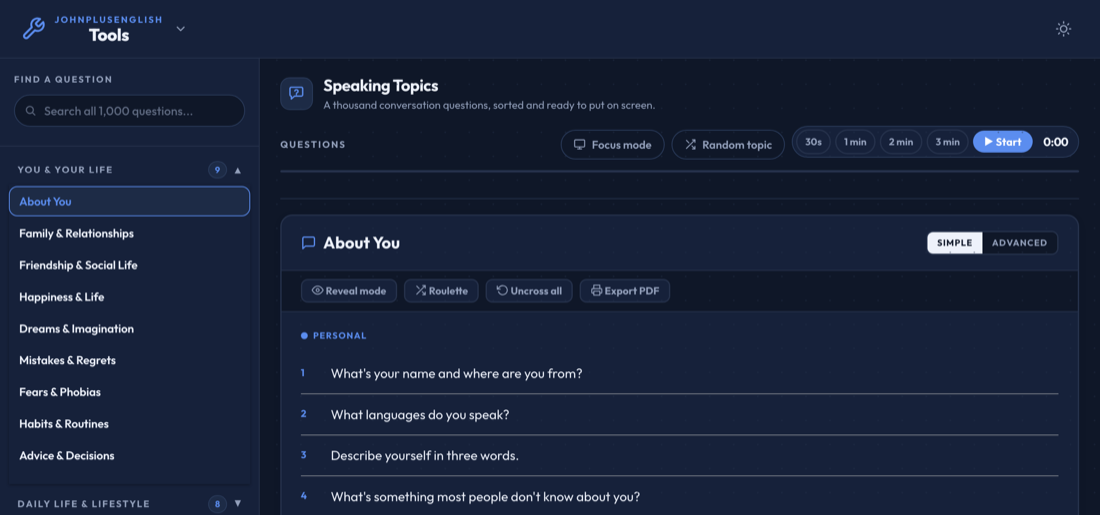
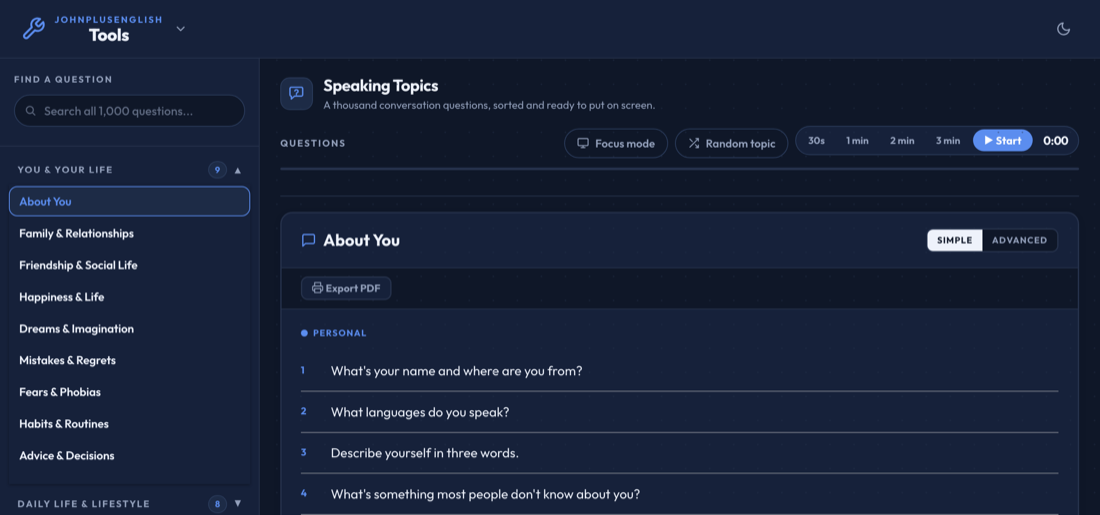
Declutter Speaking Topics
John: "too many buttons and pills, need to declutter and simplify."

The card under each topic had four tool buttons; it has one now. Removed Reveal
mode, Roulette and Uncross all, keeping Export PDF. He confirmed the cuts, and
picked which toolbar controls to keep: Focus mode, the timer and Random topic
all stay. Each removed button was one `h += '<button ...>'` line in renderDeck,
stripped from the built output; revealMode stays false so the questions simply
always show, and the roulette overlay is left in place but unreachable.

The timer read as four separately-bordered pills inside a bordered container,
because the tool gives each pill its own 1.5px border that my styles had not
reset. Stripped it, so the presets are now one clean segmented control.

Verified: 50 topics load, the deck builds, the timer runs and its presets
select, and Focus mode and Random topic are intact. No console errors.

diff --git a/tools/speaking-topics.html b/tools/speaking-topics.html
@@ -431,8 +431,11 @@ main{overflow:visible;min-width:0}
 .timer-section{display:contents}
 .timer-controls{display:inline-flex;align-items:center;gap:5px;
   border:1px solid var(--soft-line);border-radius:999px;padding:3px 4px;background:var(--card)}
+/* The tool gives each pill its own 1.5px border; inside the bordered timer
+   container that reads as four loose pills. Strip it so the presets are one
+   clean segmented control. */
 .timer-pill{font-size:11.5px;font-weight:700;color:var(--muted);cursor:pointer;
-  padding:4px 9px;border-radius:999px;transition:background .12s,color .12s}
+  padding:4px 10px;border-radius:999px;border:none;transition:background .12s,color .12s}
 .timer-pill:hover{color:var(--accent);background:var(--soft)}
 .timer-pill.on,.timer-pill.active{background:var(--accent);color:#fff}
 .timer-play{font-family:inherit;font-size:12.5px;font-weight:700;cursor:pointer;
@@ -693,10 +696,7 @@ function renderDeck() {
 
   // Toolbar
   h += '<div class="deck-toolbar">';
-  h += '<button class="deck-tool-btn' + (revealMode ? ' on' : '') + '" onclick="toggleRevealMode()"><svg width="14" height="14" viewBox="0 0 24 24" fill="none" stroke="currentColor" stroke-width="2" stroke-linecap="round" stroke-linejoin="round" style="vertical-align:-.15em"><path d="M1 12s4-8 11-8 11 8 11 8-4 8-11 8-11-8-11-8z"/><circle cx="12" cy="12" r="3"/></svg> Reveal mode</button>';
-  h += '<button class="deck-tool-btn" onclick="openRoulette()"><svg width="14" height="14" viewBox="0 0 24 24" fill="none" stroke="currentColor" stroke-width="2" stroke-linecap="round" stroke-linejoin="round" style="vertical-align:-.15em"><polyline points="16 3 21 3 21 8"/><line x1="4" y1="20" x2="21" y2="3"/><polyline points="21 16 21 21 16 21"/><line x1="15" y1="15" x2="21" y2="21"/><line x1="4" y1="4" x2="9" y2="9"/></svg> Roulette</button>';
-  h += '<button class="deck-tool-btn" onclick="uncrossAll()"><svg width="14" height="14" viewBox="0 0 24 24" fill="none" stroke="currentColor" stroke-width="2" stroke-linecap="round" stroke-linejoin="round" style="vertical-align:-.15em"><polyline points="1 4 1 10 7 10"/><path d="M3.51 15a9 9 0 1 0 2.13-9.36L1 10"/></svg> Uncross all</button>';
-  h += '<button class="deck-tool-btn" onclick="exportPDF()"><svg width="14" height="14" viewBox="0 0 24 24" fill="none" stroke="currentColor" stroke-width="2" stroke-linecap="round" stroke-linejoin="round" style="vertical-align:-.15em"><polyline points="6 9 6 2 18 2 18 9"/><path d="M6 18H4a2 2 0 0 1-2-2v-5a2 2 0 0 1 2-2h16a2 2 0 0 1 2 2v5a2 2 0 0 1-2 2h-2"/><rect x="6" y="14" width="12" height="8"/></svg> Export PDF</button>';
+        h += '<button class="deck-tool-btn" onclick="exportPDF()"><svg width="14" height="14" viewBox="0 0 24 24" fill="none" stroke="currentColor" stroke-width="2" stroke-linecap="round" stroke-linejoin="round" style="vertical-align:-.15em"><polyline points="6 9 6 2 18 2 18 9"/><path d="M6 18H4a2 2 0 0 1-2-2v-5a2 2 0 0 1 2-2h16a2 2 0 0 1 2 2v5a2 2 0 0 1-2 2h-2"/><rect x="6" y="14" width="12" height="8"/></svg> Export PDF</button>';
   h += '</div>';
 
   // Personal questions

diff --git a/build.py b/build.py
@@ -559,8 +559,11 @@ main{overflow:visible;min-width:0}
 .timer-section{display:contents}
 .timer-controls{display:inline-flex;align-items:center;gap:5px;
   border:1px solid var(--soft-line);border-radius:999px;padding:3px 4px;background:var(--card)}
+/* The tool gives each pill its own 1.5px border; inside the bordered timer
+   container that reads as four loose pills. Strip it so the presets are one
+   clean segmented control. */
 .timer-pill{font-size:11.5px;font-weight:700;color:var(--muted);cursor:pointer;
-  padding:4px 9px;border-radius:999px;transition:background .12s,color .12s}
+  padding:4px 10px;border-radius:999px;border:none;transition:background .12s,color .12s}
 .timer-pill:hover{color:var(--accent);background:var(--soft)}
 .timer-pill.on,.timer-pill.active{background:var(--accent);color:#fff}
 .timer-play{font-family:inherit;font-size:12.5px;font-weight:700;cursor:pointer;
@@ -734,6 +737,17 @@ def build_speaking(html, t):
            "r='7'/%3E%3Cline x1='21' y1='21' x2='16.65' y2='16.65'/%3E%3C/svg%3E\")}"
            "/* /jpt:strip */</style>")
     html = inject_before(html, '</head>', ico, 'the search icon')
+
+    # Declutter (John's call): keep only Export PDF on the deck card. Remove the
+    # Reveal-mode, Roulette and Uncross-all buttons, which built the busy second
+    # row of tools under every topic. Each is one `h += '<button ...>';` line in
+    # renderDeck; revealMode stays false so the questions simply always show.
+    for fn in ('toggleRevealMode', 'openRoulette', 'uncrossAll'):
+        html, n = re.subn(
+            r"h \+= '<button class=\"deck-tool-btn[^\n]*?onclick=\"" + fn + r"\(\)\"[^\n]*?</button>';\n?",
+            '', html, count=1)
+        if not n:
+            raise SystemExit(f'build: could not remove the {fn} button from speaking-topics')
 
     # The topics used to sit above the questions; they are a list on the left now.
     # The picker is gone, but renderNames() still runs at boot and would write